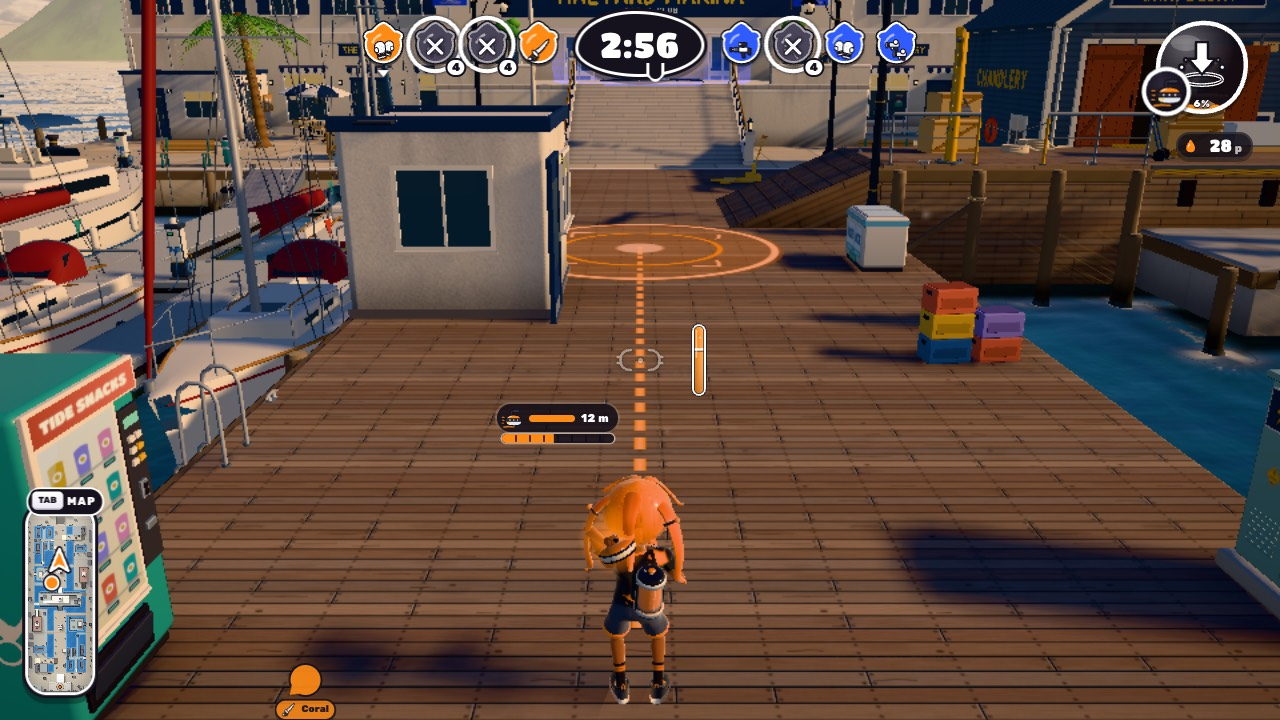
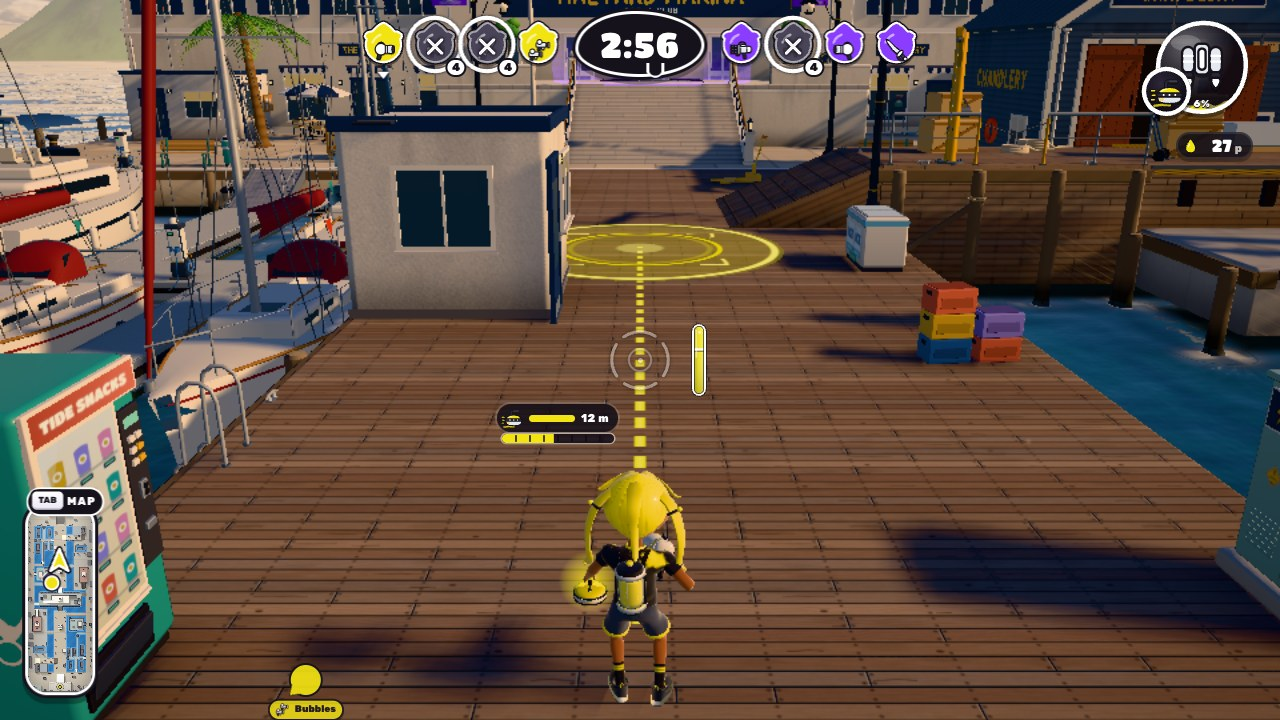
(scratch) sub-glide pictures, fix round 1: the stone carried low by its handle (held, from the front), the thrower's own view (guide), a foe cooking one 8 m ahead from our eyes (enemy), the underhand roll (roll); the scene script [b5-sub-glide]

diff --git a/tools/botlab/jobs/batch5/sub-glide/scenes.js b/tools/botlab/jobs/batch5/sub-glide/scenes.js
@@ -1,8 +1,11 @@
 // [b5-sub-glide] pictures of the Glide Bomb, for tools/botlab/hud-shots.cjs:
 //   MAP=halyard PLAY=2 W=1280 H=720 SCENES=tools/botlab/jobs/batch5/sub-glide/scenes.js OUT=/dir tools/botlab/run.sh tools/botlab/hud-shots.cjs
-//   held     the stone in a kid's hand, cooking (its lamps going out, the team glow round the fist), seen from the front
+//   held     the stone in a kid's hand, cooking (its lamps going out, the team glow round the fist), carried low by its
+//            handle beside the hip, seen from the front
 //   guide    the player's view while cooking: the aim guide (the dashed lane, the blast ring at its stop), the HUD cook bar,
 //            the reach in the sub chip, the reticle dimmed (the main weapon locked)
+//   enemy    a foe 8 m ahead cooking one, from our eyes (the stone low at its hip, its glow)
+//   roll     the underhand roll on the release (side view)
 //   slide    a stone sliding: its curl, its lamps, the inked lane behind it, its size ring riding with it
 //   fuse     its last 0.8 s: the Splat Bomb's danger ring, beep pulses
 //   blast    the blast (full cook: R 3.2)
@@ -40,8 +43,7 @@
       if (M.current) { M.show(null); await wait(500); }
       g.hud?.setVisible?.(false); reset();
       hold = true; step(78);   // (held 1.3 s: cook 1.15 — half the lamps out, the glow up)
-      const h = new THREE.Vector3(); me.character.bones.handL.getWorldPosition(h);
-      cine(at(1.7, 1.6, 1.75), h.clone().lerp(at(0, 0, 1.3), 0.3), 36);
+      cine(at(2.0, -0.9, 1.2), at(0, -0.2, 0.6), 44);   // (in front, on its left: carried low by its handle beside the hip)
       step(1);
       return { cook: me.weaponRunner.glide?.cook, lv: K.levelShown(me) };
     } },
@@ -49,6 +51,26 @@
       g.hud?.setVisible?.(true); reset(); g.settings.fov = 70; g.rig.follow(me, true); g.rig.yaw = P.yaw; g.rig.pitch = -0.32;
       hold = true; step(60);   // (held 1.0 s: cook 0.85 — the lane to its stop, the bar a half, "12 m")
       return { chip: g.hud?.subChip?.lastChild.textContent, locked: me.weaponRunner.mainLocked };
+    } },
+    { name: 'enemy', wait: 300, set: async () => {
+      g.hud?.setVisible?.(false); reset();
+      // a foe 8 m ahead cooking one (held 1.4 s: cook 1.25, level 2), seen from our eyes: the stone low at its hip, its glow
+      const f = others.find((a) => a.team !== me.team), u0 = f.bot.update;
+      f.setSub('glide'); f.ink = 100; f.pos.copy(at(8)).setY(P.y + 0.02); f.vel.set(0, 0, 0); f.yaw = f.aimYaw = P.yaw + Math.PI; f.aimPitch = -0.1;
+      if (f.bot) { f.bot.aimYaw = f.aimYaw; f.bot.aimPitch = -0.1; }
+      f.bot.update = () => { zero(f); f.intent.sub = true; };
+      step(84);
+      cine(at(0, 0, 1.55), at(8, 0, 0.8), 45);
+      step(1);
+      const r = { cook: f.weaponRunner.glide?.cook, lv: K.levelShown(f) };
+      f.bot.update = u0; return r;
+    } },
+    { name: 'roll', wait: 120, set: async () => {
+      g.hud?.setVisible?.(false); reset();
+      hold = true; step(40); hold = false; step(7);   // (the underhand roll, 7 frames after the release)
+      cine(at(0.5, -3.0, 1.1), at(0.6, 0, 0.55), 48);   // (from its left side)
+      step(1);
+      return { stone: !!lastStone() };
     } },
     { name: 'slide', wait: 300, set: async () => {
       g.hud?.setVisible?.(false); reset(); g.settings.fov = 70; g.rig.follow(me, true);
